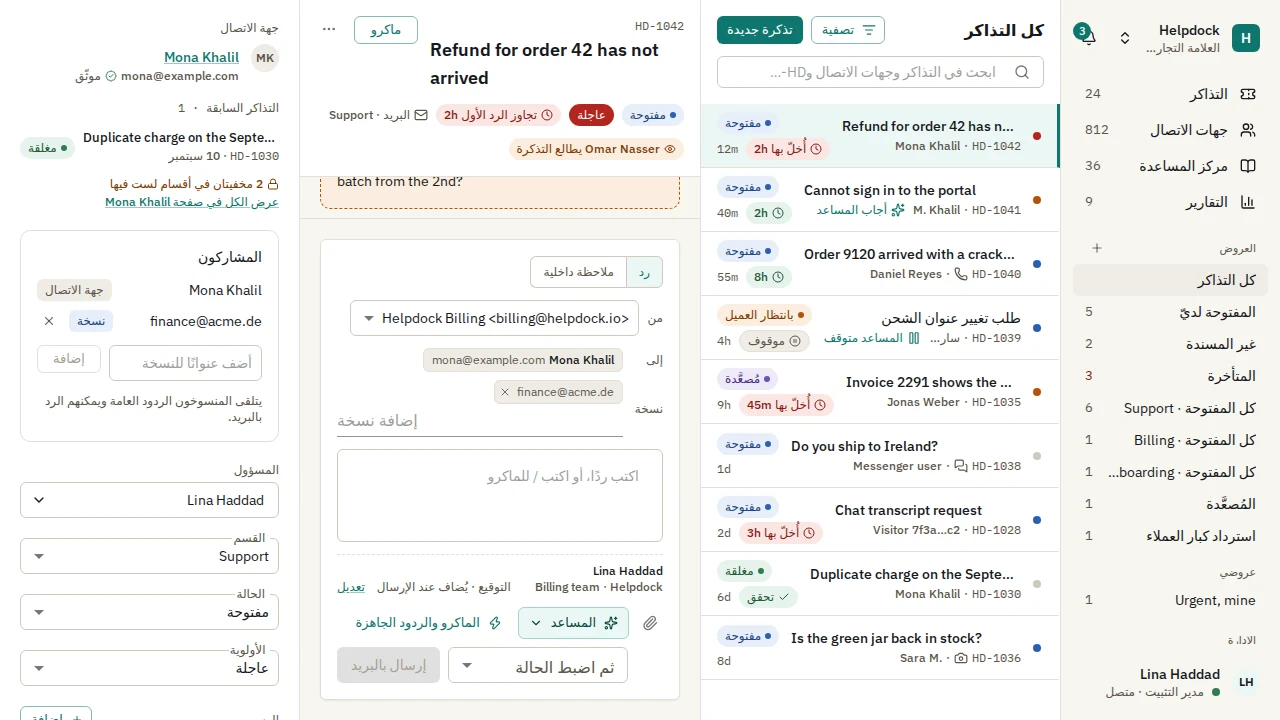
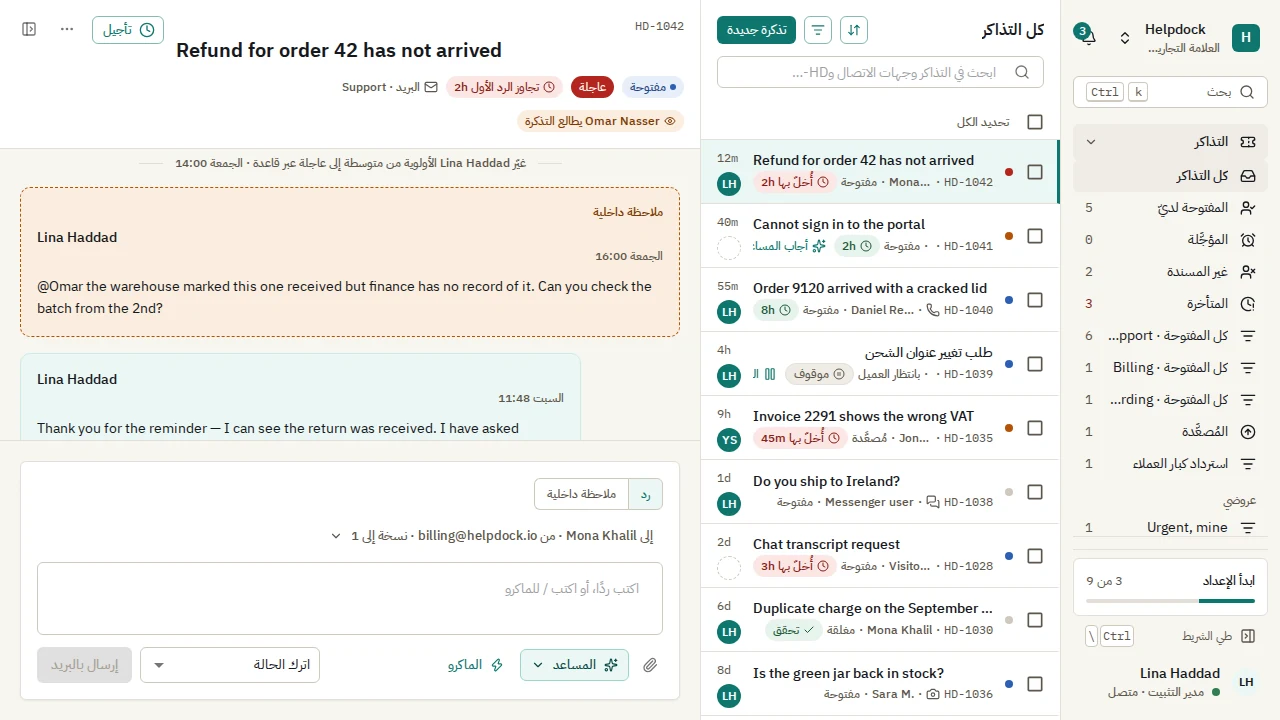
fix(tickets): show "Leave the status" in the composer and refresh the website screenshots (M14-19) (#456)
* fix(tickets): show "Leave the status" in the composer's status box (M14-19)

The select had no displayEmpty, so its empty value drew a blank box with the
label visually hidden.

Claude-Session: https://claude.ai/code/session_0166T69o33gySW8tbADCkjo9

* test(admin): regenerate the screenshot baselines and refresh the website's ticket view

Baselines come from the Screenshots workflow run 41670784014. The development
guide's download command fails when the files already exist, so it now
downloads elsewhere and copies them in.

Claude-Session: https://claude.ai/code/session_0166T69o33gySW8tbADCkjo9

* test(admin): fix the real-api specs broken by the sidebar tree and the one-button empty state

The specs clicked the header button a first-run contact list no longer has,
and clicked the row of the current sidebar section, which now folds it. The
admin-unit shard also ran into its 15-minute limit, so it gets 20.

Claude-Session: https://claude.ai/code/session_0166T69o33gySW8tbADCkjo9

* test(admin): keep the Settings helper from folding an open tree behind a closing dialog

Claude-Session: https://claude.ai/code/session_0166T69o33gySW8tbADCkjo9

---------

diff --git a/apps/admin/e2e/flows.ts b/apps/admin/e2e/flows.ts
@@ -98,7 +98,12 @@ const say = (t: Translate, key: string): string => (t as (key: string) => string
  */
 export async function openSettingsTree(page: Page | Locator, t: Translate): Promise<void> {
   const tree = settingsTree(page, t);
-  if (!(await tree.isVisible())) {
+  // A closing dialog still hides the shell from the accessibility tree. Read that as folded and
+  // the click below would fold a tree that is open, so this looks past `aria-hidden`.
+  const unfolded = page
+    .getByRole('navigation', { name: t('admin:nav.label'), includeHidden: true })
+    .getByRole('list', { name: t('admin:settings.navLabel'), includeHidden: true });
+  if (!(await unfolded.isVisible())) {
     await page
       .getByRole('navigation', { name: t('admin:nav.label') })
       .getByRole('link', { name: t('admin:nav.settings'), exact: true })

diff --git a/apps/admin/e2e/api/widget-brands.api.spec.ts b/apps/admin/e2e/api/widget-brands.api.spec.ts
@@ -81,10 +81,7 @@ const openTicketIn = async (admin: Page, brandName: string, reference: string): 
   await admin.getByRole('button', { name: t('admin:brandSwitcher.action') }).click();
   await admin.getByRole('menuitemradio', { name: brandName }).click();
   await expect(admin.getByRole('menuitemradio', { name: brandName })).toBeHidden();
-  await admin
-    .getByRole('link', { name: new RegExp(t('admin:nav.tickets')) })
-    .first()
-    .click();
+  // The admin is already in Tickets, whose views are open; a click on the section's row would fold them.
   await admin.getByRole('link', { name: t('tickets:views.all'), exact: true }).click();
   await admin.getByRole('link', { name: new RegExp(reference) }).click();
 };

diff --git a/apps/admin/src/screens/tickets/ticket-email.test.tsx b/apps/admin/src/screens/tickets/ticket-email.test.tsx
@@ -57,6 +57,14 @@ describe('the composer on an email ticket', () => {
     vi.unstubAllGlobals();
   });
 
+  it('says the status stays as it is when nothing is chosen, not a blank box', async () => {
+    await open(MOCK_TICKET_REFUND);
+
+    expect(within(composer()).getByRole('combobox', { name: 'Then set status' })).toHaveTextContent(
+      'Leave the status',
+    );
+  });
+
   it('is one line until it is opened, then shows From, To, Cc and the signature', async () => {
     const { user } = await open(MOCK_TICKET_REFUND);
 

diff --git a/apps/admin/src/screens/tickets/composer.tsx b/apps/admin/src/screens/tickets/composer.tsx
@@ -611,7 +611,7 @@ export function Composer({
           value={thenStatusId}
           label={t('tickets:composer.thenSetStatus')}
           // One toolbar row (`Admin/Ticket-CompactComposer`): the name is for the screen reader, the box says what it does.
-          slotProps={{ inputLabel: { sx: visuallyHidden } }}
+          slotProps={{ inputLabel: { sx: visuallyHidden }, select: { displayEmpty: true } }}
           onChange={(event) => {
             onThenStatusChange(event.target.value);
           }}

diff --git a/apps/admin/e2e/api/contacts.api.spec.ts b/apps/admin/e2e/api/contacts.api.spec.ts
@@ -40,7 +40,7 @@ test.describe('contacts against the real api', () => {
 
     await expect(page.getByText(t('contacts:empty.heading'))).toBeVisible();
 
-    await page.getByRole('button', { name: t('contacts:newContact') }).click();
+    await page.getByRole('button', { name: t('contacts:empty.action') }).click();
     const form = page.getByRole('dialog');
     await form.getByLabel(t('contacts:dialog.nameLabel'), { exact: true }).fill(CONTACT_NAME);
     await form

diff --git a/docs/guides/release.md b/docs/guides/release.md
@@ -183,6 +183,9 @@ the next patch ([security scanning](security-scanning.md)).
   Do not tie this assertion to `apps/api/package.json`: Changesets bumps it before the release image exists,
   while templates must continue pointing at an already published image.
 
+- A release updates the website's version number, not its images. When the
+  admin's `ticket-view.png` baselines changed, refresh the site's copies as
+  [the website guide](website.md#images) describes.
 - Check that the website shows the new version (Actions › Pages). If the dispatch
   failed, the release run shows a warning instead of failing; run
   **Pages › Run workflow** by hand.

diff --git a/docs/guides/development.md b/docs/guides/development.md
@@ -445,7 +445,9 @@ Actions tab or with `gh`, then commit what comes back:
 
 ```bash
 gh workflow run screenshots.yml --ref <your-branch>
-gh run download <run-id> --name screenshot-baselines --dir apps/admin/e2e/__screenshots__
+# gh will not overwrite existing files, so download elsewhere and copy them in.
+gh run download <run-id> --name screenshot-baselines --dir /tmp/screenshot-baselines
+cp -R /tmp/screenshot-baselines/ apps/admin/e2e/__screenshots__/
 git add apps/admin/e2e/__screenshots__
 ```
 

diff --git a/.changeset/composer-status-label.md b/.changeset/composer-status-label.md
@@ -1,0 +1,5 @@
+---
+'@helpdock/api': patch
+---
+
+The composer's status box says "Leave the status" when no status is chosen, instead of showing a blank box.
